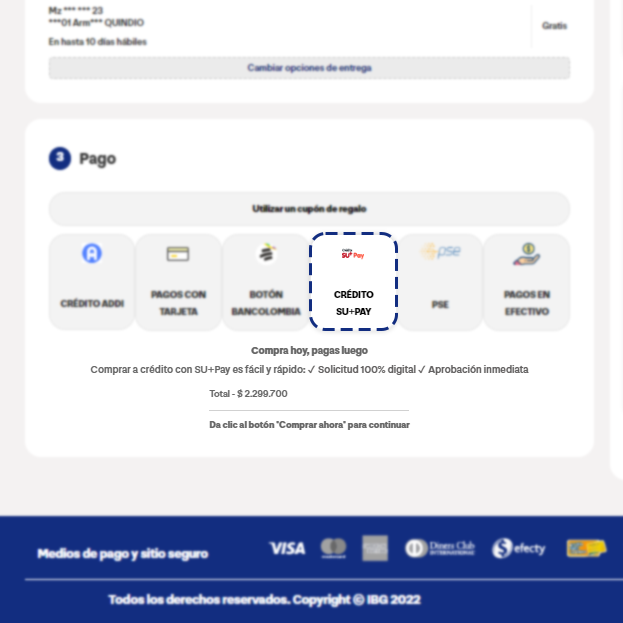
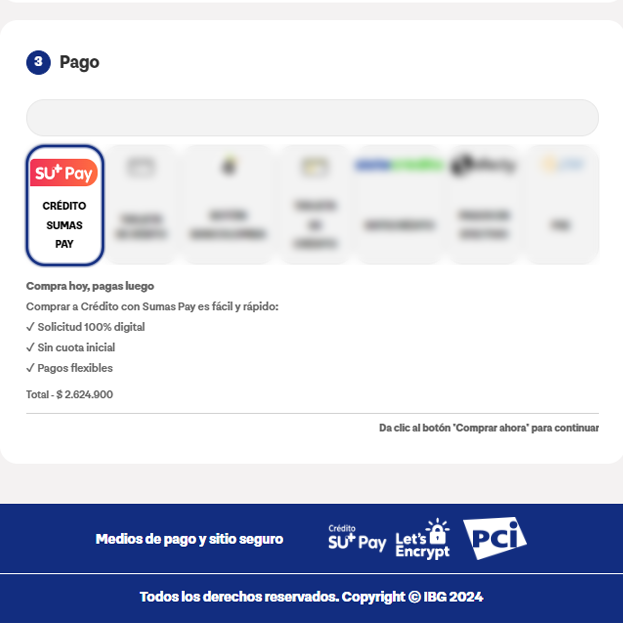
Se añaden cambios solicitados por Sumas Pay en landing info formas de pago, pdp y checkout

diff --git a/react/components/SumasPay/SumasPay.jsx b/react/components/SumasPay/SumasPay.jsx
@@ -6,10 +6,10 @@ const SumasPay = () => {
     <>
       <div className={styles.contenedor__sumas}>
         <div className={styles.contenedor__logosumas}>
-          <img src="https://ibgcol.vteximg.com.br/arquivos/ids/158019/sumaspay-checkout-ibg-28x28.png" alt="logo Su+Pay" />
+          <img src="https://ibgcol.vteximg.com.br/arquivos/ids/159097/AF_FLAG_Isotipo_Sumas_pay_-_checkout_2024.svg" alt="logo Su+Pay" />
         </div>
         <div className={styles.texto__sumas}>
-          Solicita tu Crédito SU+ Pay 100% digital en menos de 10 minutos. <a href="/formas-de-pago" target="_blank">Saber más</a>
+          Solicita tu Crédito Sumas Pay 100% digital en menos de 10 minutos. <a href="/formas-de-pago" target="_blank">Saber más</a>
         </div>
       </div>
     </>

diff --git a/react/components/SumasPay/styles.css b/react/components/SumasPay/styles.css
@@ -10,7 +10,7 @@
 }
 
 .contenedor__sumas .contenedor__logosumas {
-    max-width: 30px;
+    max-width: 80px;
     width: 100%;
 }
 
